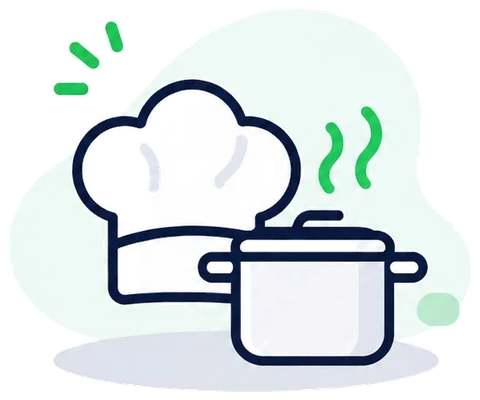
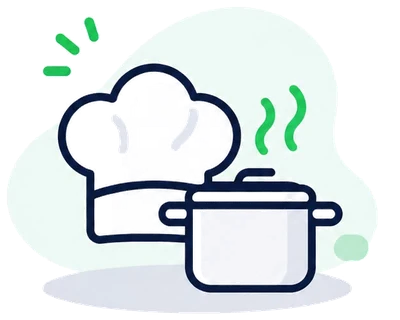
Comandas vacías: ilustraciones más chicas y centradas sobre el título
Claude-Session: https://claude.ai/code/session_013WywtSNyEEMeCbo9AvawQS

diff --git a/index.html b/index.html
@@ -46,9 +46,9 @@ window.VP_IMGS = [
   'img/promo-stripe-v.webp?v=1',
   'img/stripe-conectar.webp?v=2',
   'img/stripe-menu.webp?v=1',
-  'img/vacio-caja.webp?v=1',
-  'img/vacio-mesero.webp?v=1',
-  'img/vacio-cocina.webp?v=1',
+  'img/vacio-caja.webp?v=2',
+  'img/vacio-mesero.webp?v=2',
+  'img/vacio-cocina.webp?v=2',
   'img/stripe-saldo.webp?v=1',
   'img/stripe-nfc.webp?v=1',
   'img/comandas-caja-cel.webp?v=2',
@@ -5464,7 +5464,7 @@ div.stf-row{ cursor:default; }
 </style>
 <link rel="stylesheet" href="vendo-mesas.css?v=10">
 <script src="vendo-mesas.js?v=11"></script>
-<link rel="stylesheet" href="vendo-comandas.css?v=35">
+<link rel="stylesheet" href="vendo-comandas.css?v=36">
 <style>
 .vp-err-card{ max-width:420px; margin:40px auto; padding:22px 20px; border:1px solid var(--border,#E8EBF2); border-radius:18px; background:#fff; display:flex; flex-direction:column; gap:10px; text-align:center; }
 .vp-err-card b{ font-size:17px; color:var(--ink,#16213E); }
@@ -5474,7 +5474,7 @@ div.stf-row{ cursor:default; }
 .vp-err-bar span{ flex:1; }
 .vp-err-bar button{ border:none; border-radius:10px; padding:8px 12px; background:#19C15F; color:#fff; font:800 13px system-ui, sans-serif; }
 </style>
-<script src="vendo-comandas.js?v=40"></script>
+<script src="vendo-comandas.js?v=41"></script>
 <style>
 /* ===== LOGO NUEVO DE VENDO PLUS (V azul marino sobre blanco) =====
    El cuadrito del logo ahora es blanco y la V va en azul marino #01164F.

diff --git a/vendo-comandas.css b/vendo-comandas.css
@@ -65,7 +65,7 @@ body.cm-mesero .vp-empty-cta{ display:none !important; }
 .cm-empty-art svg{ display:block; width:190px; max-width:70%; height:auto; margin:0 auto 6px; }
 .cm-empty{ display:flex; flex-direction:column; align-items:center; text-align:center; }
 .cm-empty-art{ display:flex; justify-content:center; width:100%; }
-.cm-empty-art img{ display:block; width:130px; max-width:45%; height:auto; margin:6px auto 10px; -webkit-user-select:none; user-select:none; }
+.cm-empty-art img{ display:block; width:104px; max-width:38%; height:auto; margin:6px auto 10px; -webkit-user-select:none; user-select:none; }
 .cm-empty .empty-text{ max-width:300px; margin-left:auto; margin-right:auto; }
 
 /* Formulario y permisos */

diff --git a/vendo-comandas.js b/vendo-comandas.js
@@ -612,7 +612,7 @@ window.VPComandas = (() => {
           </div>`).join('')}
       </div>` : `
       <div class="empty-state cm-empty">
-        <span class="cm-empty-art"><img src="img/vacio-${st.area}.webp?v=1" alt="" decoding="async" draggable="false"></span>
+        <span class="cm-empty-art"><img src="img/vacio-${st.area}.webp?v=2" alt="" decoding="async" draggable="false"></span>
         <div class="empty-title">${VACIO[st.area].t}</div>
         <div class="empty-text">${VACIO[st.area].d}</div>
       </div>`}`;

diff --git a/sw.js b/sw.js
@@ -34,9 +34,9 @@ const BASE = ['./', './vendor/supabase-2.119.0.js',
   './img/promo-stripe-v.webp?v=1',
   './img/stripe-conectar.webp?v=2',
   './img/stripe-menu.webp?v=1',
-  './img/vacio-caja.webp?v=1',
-  './img/vacio-mesero.webp?v=1',
-  './img/vacio-cocina.webp?v=1',
+  './img/vacio-caja.webp?v=2',
+  './img/vacio-mesero.webp?v=2',
+  './img/vacio-cocina.webp?v=2',
   './img/stripe-saldo.webp?v=1',
   './img/stripe-nfc.webp?v=1',
   './img/comandas-caja-cel.webp?v=2',
